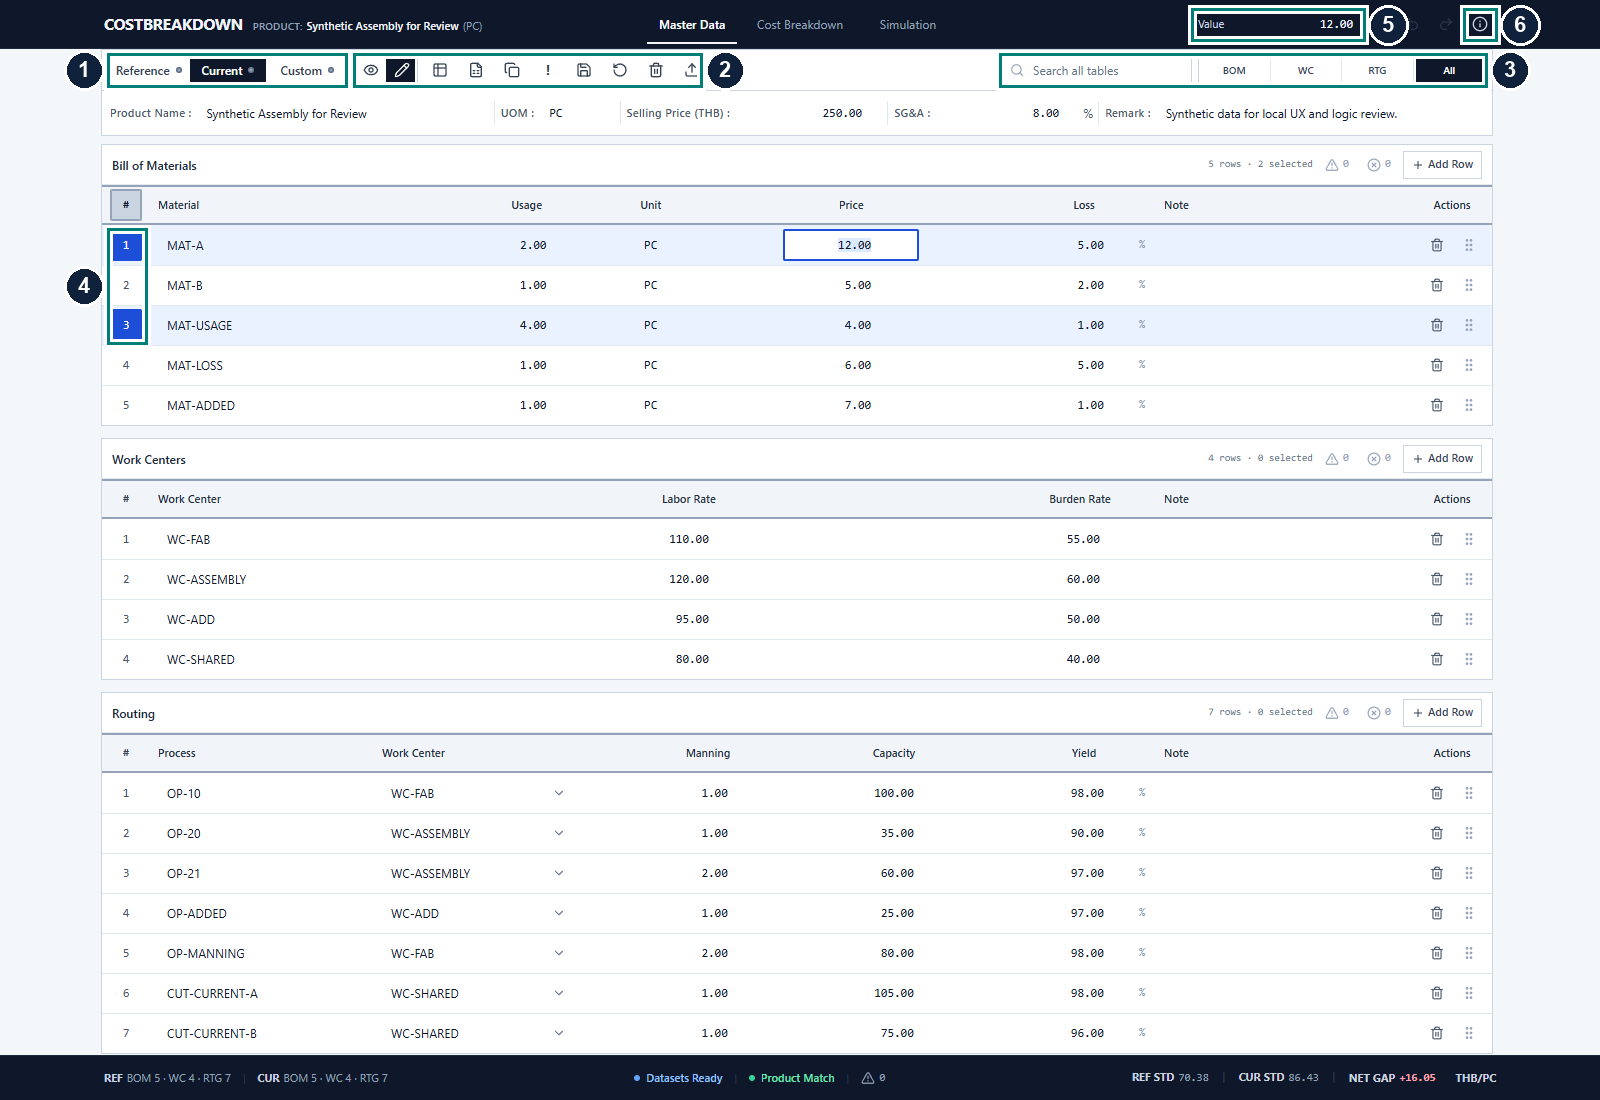
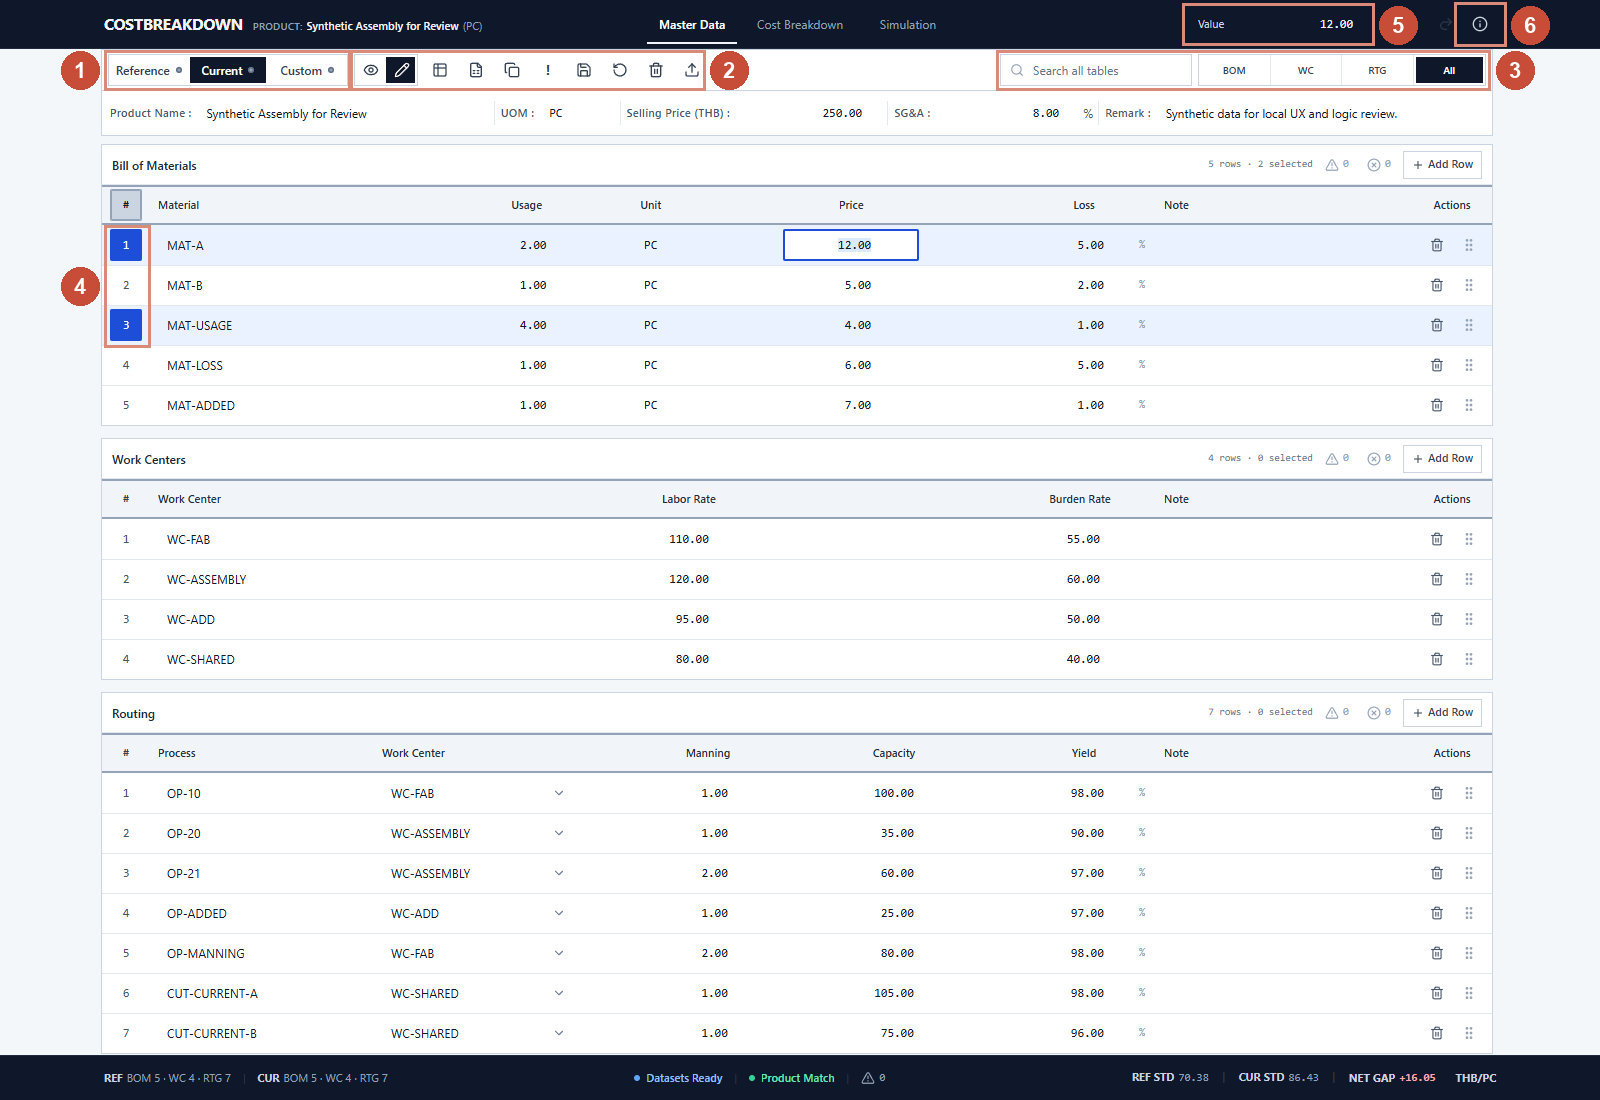
docs: polish user guide diagrams and screenshots

Changed region(s): [[0.625, 0.0, 0.9688, 0.0927], [0.0312, 0.0309, 0.4688, 0.0927], [0.0312, 0.1855, 0.0938, 0.34]]

diff --git a/USER_GUIDE.md b/USER_GUIDE.md
@@ -4,6 +4,10 @@ Prepare your data, choose an analysis, then keep the inputs you need.
 
 [Master Data](#prepare-your-data) · [Cost Breakdown](#explain-a-cost-change) · [Simulation](#try-a-change) · [Keep your work](#keep-your-work)
 
+![Excel import and export, Master Data Working values, Last Saved, Cost Breakdown, and Simulation inside the current browser session.](docs/images/data-session.svg)
+
+Excel brings inputs to Master Data. Cost Breakdown reads Working values; Simulation tests a proposal and can send supported changes back. Export creates a workbook you can keep.
+
 Screenshots show the real app with example data. Numbers match the notes below each image. Open an image at full size to read small controls.
 
 ## Open the app
@@ -144,8 +148,6 @@ Changing a dataset's source Working data rebuilds its scenario and assumptions. 
 ## Keep your work
 
 Working data, checkpoints, and scenarios belong to the current browser session. Export the data you want to keep before ending the session.
-
-![Excel files are outside the browser session. Working data feeds both analyses; Save, Reset, and Send act within the session.](docs/images/data-session.svg)
 
 | Master Data action | Effect |
 |---|---|
